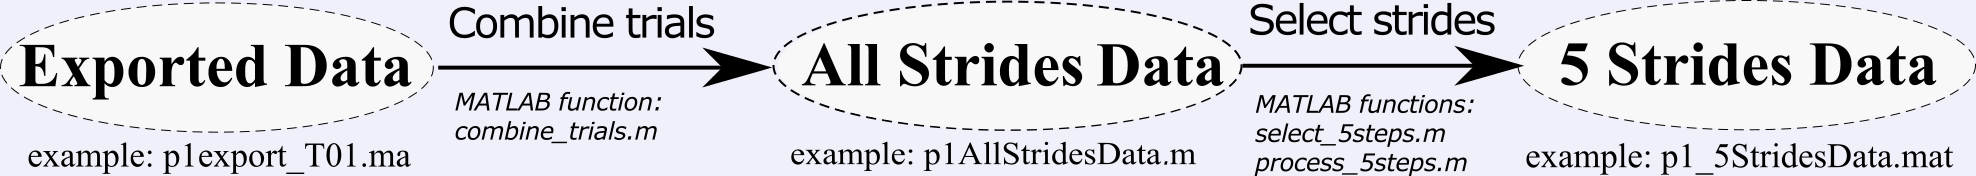
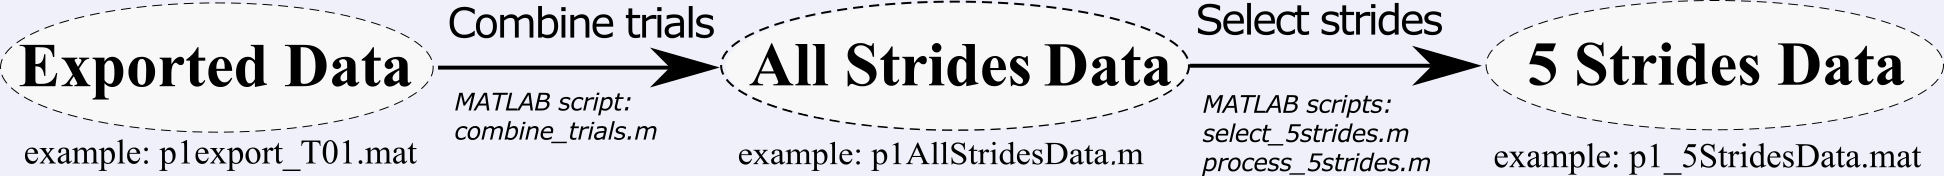
correct names

diff --git a/2. Visualization/example_plotting.m b/2. Visualization/example_plotting.m
@@ -52,7 +52,7 @@ subj=input('Which subject (from 1-9) are you interested in?');
 % following section/follwoing 3 figures
 
 %% Variable of interest (5 strides for one subject, one trial)
-plot5steps(typename, variablename, trial, subj, col)
+plot5strides(typename, variablename, trial, subj, col)
 
 %% Ground reaction force (5 strides for one subject, one trial)
 GRFplot(subj, trial)
@@ -185,7 +185,7 @@ for subject= 1:9 %Loops over all subjects that have 5 strides data files
             HS=hsr;
             sidename= 'Right';
         end
-        %var1 contains the mean of 5 steps for each subject and variable
+        %var1 contains the mean of 5 strides for each subject and variable
         var1(:, trial,subject)=mean(interpolate_to_percgaitcycle(data(trials(trial)).(field).(variable)(:,col), HS,101),2,'omitnan');
     end
 end
@@ -454,11 +454,11 @@ legend('Mean','1','2','3','4','5','6','7','8','9','location','best')
 end
 
 
-%% plot5steps Function
+%% plot5strides Function
 
-function plot5steps(field, variable, trial, subject, direction)
+function plot5strides(field, variable, trial, subject, direction)
 
-% Plots 5 steps and the mean of 5 steps for a given motion capture variable
+% Plots 5 strides and the mean of 5 strides for a given motion capture variable
 % in a specified plane of motion
 
 % INPUTS: field- a string that contains the name of the field that contains
@@ -529,14 +529,14 @@ end
 % Interpolate the data for the variable of interest to 101 data points
 var=interpolate_to_percgaitcycle(data(trial).(field).(variable)(:,direction),hs_mo(:,index),101);
 
-%Plot each 5 steps and mean of 5 steps for the variable 
-figure('name', (strcat(['5 steps and Mean for Subject ', num2str(subject), ' Trial ', num2str(trial),' --- ', side, ' ', joint, ' ', type])));
+%Plot each 5 strides and mean of 5 strides for the variable 
+figure('name', (strcat(['5 strides and Mean for Subject ', num2str(subject), ' Trial ', num2str(trial),' --- ', side, ' ', joint, ' ', type])));
 plot(mean(var,2), 'linewidth', 5, 'color', 'k'); hold on
 plot(var, 'linewidth', 2)
 xlabel ('% gait cycle')
 ylabel (strcat([side, ' ', joint, ' ', type, ' ', varunit]))
 title (strcat(['Subject ', num2str(subject), ' Trial ', num2str(trial),': ', side, ' ', joint, ' ', type]));
-legend('Mean', 'Step 1', 'Step 2', 'Step 3', 'Step 4', 'Step 5', 'location','best')
+legend('Mean', 'stride 1', 'stride 2', 'stride 3', 'stride 4', 'stride 5', 'location','best')
 grid on
 axis tight
 
@@ -556,14 +556,14 @@ function GRFplot(subjects, trials)
 % Ouputs: For each subject/trial combination, a single plot will appear,
 
 
-% 5 steps analysis
+% 5 strides analysis
 
 %loops over subject and loads subject's data and then loops over trials
 for subj = subjects
     data=[];
     load(['p',num2str(subj),'_5StridesData'])
     for trial = trials
-% Figure: 5 step figure: ground reaction forces
+% Figure: 5 stride figure: ground reaction forces
 
         figure('name', (['GRF for Subject ', num2str(subj),', Trial: ', num2str(trial)]))
         
@@ -654,7 +654,7 @@ function plot3x3(s,t)
 %INPUTS: s- subject, t- trial
 % input single number not an array of numbers
 %OUTPUT: a 3x3 figure of the ankle, knee, and hip angle, moment, and power
-%for the left (blue) and right(red) legs avereaged over 5 steps
+%for the left (blue) and right(red) legs avereaged over 5 strides
 
 trial=t;
 subj=s;

diff --git a/1. Selection/select_5strides.m b/1. Selection/select_5strides.m
@@ -1,5 +1,5 @@
 clear all; close all; clc
-% Creates .mat files with 5 steps of good quality data from exported data
+% Creates .mat files with 5 strides of good quality data from exported data
 
 %% Settings
 subjects = 1;
@@ -22,8 +22,8 @@ export_folder = 'C:\Users\timvd\Documents\human-walking-biomechanics\1. Selectio
 
 % start with what we have already and add to that
 cd(export_folder)
-if exist('5steps_heelstrikes.mat', 'file')
-    load('5steps_heelstrikes.mat','hsl_grf','hsr_grf','hsl','start')
+if exist('5strides_heelstrikes.mat', 'file')
+    load('5strides_heelstrikes.mat','hsl_grf','hsr_grf','hsl','start')
 else
     disp('No existing file found, starting from scratch')
 end
@@ -130,7 +130,7 @@ for subj = subjects
             %% left leg
             if ishandle(1), close(1); end; figure(1)
             
-            %plot GRF of entire stance phase and GRF of 5 steps
+            %plot GRF of entire stance phase and GRF of 5 strides
             subplot(241);
             plot(pjl); hold on
             xline(hsl_mo_mid(1),'k--')
@@ -181,8 +181,8 @@ for subj = subjects
             set(gcf,'Units','normalized', 'position', [0 .5 1 .5])
 
             %Ask user if they want to shift, the number entered shifts them
-            %that many heelstrikes forward or backward from the current 5 step
-            %range (not the first 5 step range)
+            %that many heelstrikes forward or backward from the current 5 stride
+            %range (not the first 5 stride range)
             shift = input('Press a number to shift (positive for forward, 0 to stop)');
 %             close(h)
 
@@ -204,7 +204,7 @@ for subj = subjects
         RHS_future = RHS(RHS>hsl_close(2));
         hsr_first = RHS_future(1);
 
-        %% Find 5 steps
+        %% Find 5 strides
 
         figure ('name', strcat(['subject: ', num2str(subj), ', trial: ', num2str(trials(trial))]));
         plot(grflt(:,3)); hold on
@@ -225,7 +225,7 @@ for subj = subjects
     end
 end  
 
-% save('5steps_heelstrikes.mat','hsl_grf','hsr_grf','hsl','start')
+% save('5strides_heelstrikes.mat','hsl_grf','hsr_grf','hsl','start')
 
 function idx = select_indices(f1,f2)
 figure();

diff --git a/3. Analysis/analyse_biomechanics_script.m b/3. Analysis/analyse_biomechanics_script.m
@@ -55,7 +55,7 @@ Tstride = nan(nt,ns,nl);
 vcom_hs = nan(nt,ns,nl);
 vcom_hs_alt = nan(nt,ns,nl);
 deltav = nan(nt,ns,nl);
-nsteps = nan(nt,ns,nl);
+nstrides = nan(nt,ns,nl);
 Wjointtranscoll = nan(nt,ns,nl);
 Wjoint_trans = nan(nt,ns,nl);
 Wankle_trans = nan(nt,ns,nl);
@@ -131,8 +131,8 @@ for trial = 1:33
     tol = unique(tol); tol(find(diff(tol)<5)) = [];
     tor = unique(tor); tor(find(diff(tor)<5)) = [];
 
-    nsteps(trial,subj,1) = length(hsl);
-    nsteps(trial,subj,2) = length(hsr);
+    nstrides(trial,subj,1) = length(hsl);
+    nstrides(trial,subj,2) = length(hsr);
     
     actual_mass = mean(grf(hsl(1):hsl(end),3))/9.81;
 
@@ -345,17 +345,17 @@ for trial = 1:33
     end   
     
         else
-            disp(['p',num2str(subj),'_5StepsData : trial', num2str(trial), ' is NaN'])
+            disp(['p',num2str(subj),'_5StridesData : trial', num2str(trial), ' is NaN'])
         end
     else
-        disp(['p',num2str(subj),'_5StepsData : trial', num2str(trial), ' is empty'])
+        disp(['p',num2str(subj),'_5StridesData : trial', num2str(trial), ' is empty'])
     end
 end
 
 end
 
 % missing trials
-[r,c] = find(isnan(nsteps(:,:,1)));
+[r,c] = find(isnan(nstrides(:,:,1)));
 missing = [c r];
 
 %% Saving

diff --git a/1. Selection/combine_trials.m b/1. Selection/combine_trials.m
@@ -311,10 +311,10 @@ for subj = subjects
             data(trial).Link_Model_Based.rpv_wrt_lhip = [rpv_wrt_lhip{1}];
             data(trial).Link_Model_Based.rpv_wrt_rhip = [rpv_wrt_rhip{1}];
 
-            %% Store Subject Variables
-            data(trial).Subject.Height = [subjectHeight{1}];
-            data(trial).Subject.Mass = [subjectMass{1}];
-            data(trial).Subject.centerofmass = [centerofmass{1}];
+            %% Store Participant Variables
+            data(trial).Participant.Height = [subjectHeight{1}];
+            data(trial).Participant.Mass = [subjectMass{1}];
+            data(trial).Participant.centerofmass = [centerofmass{1}];
 
         else
            disp('No data found in .mat file')

diff --git a/1. Selection/process_5strides.m b/1. Selection/process_5strides.m
@@ -1,4 +1,4 @@
-% Creates .mat files with 5 steps of good quality data from exported data
+% Creates .mat files with 5 strides of good quality data from exported data
 
 %% Settings
 subjects = 1:9;
@@ -16,10 +16,10 @@ end
 cd(export_folder)
 
 % Loading heel strikes file
-if exist('5steps_heelstrikes.mat', 'file')
-    load('5steps_heelstrikes.mat','hsl_grf','hsr_grf')
+if exist('5strides_heelstrikes.mat', 'file')
+    load('5strides_heelstrikes.mat','hsl_grf','hsr_grf')
 else
-    disp('Did not find 5steps_heelstrikes.mat file')
+    disp('Did not find 5strides_heelstrikes.mat file')
     return
 end
 
